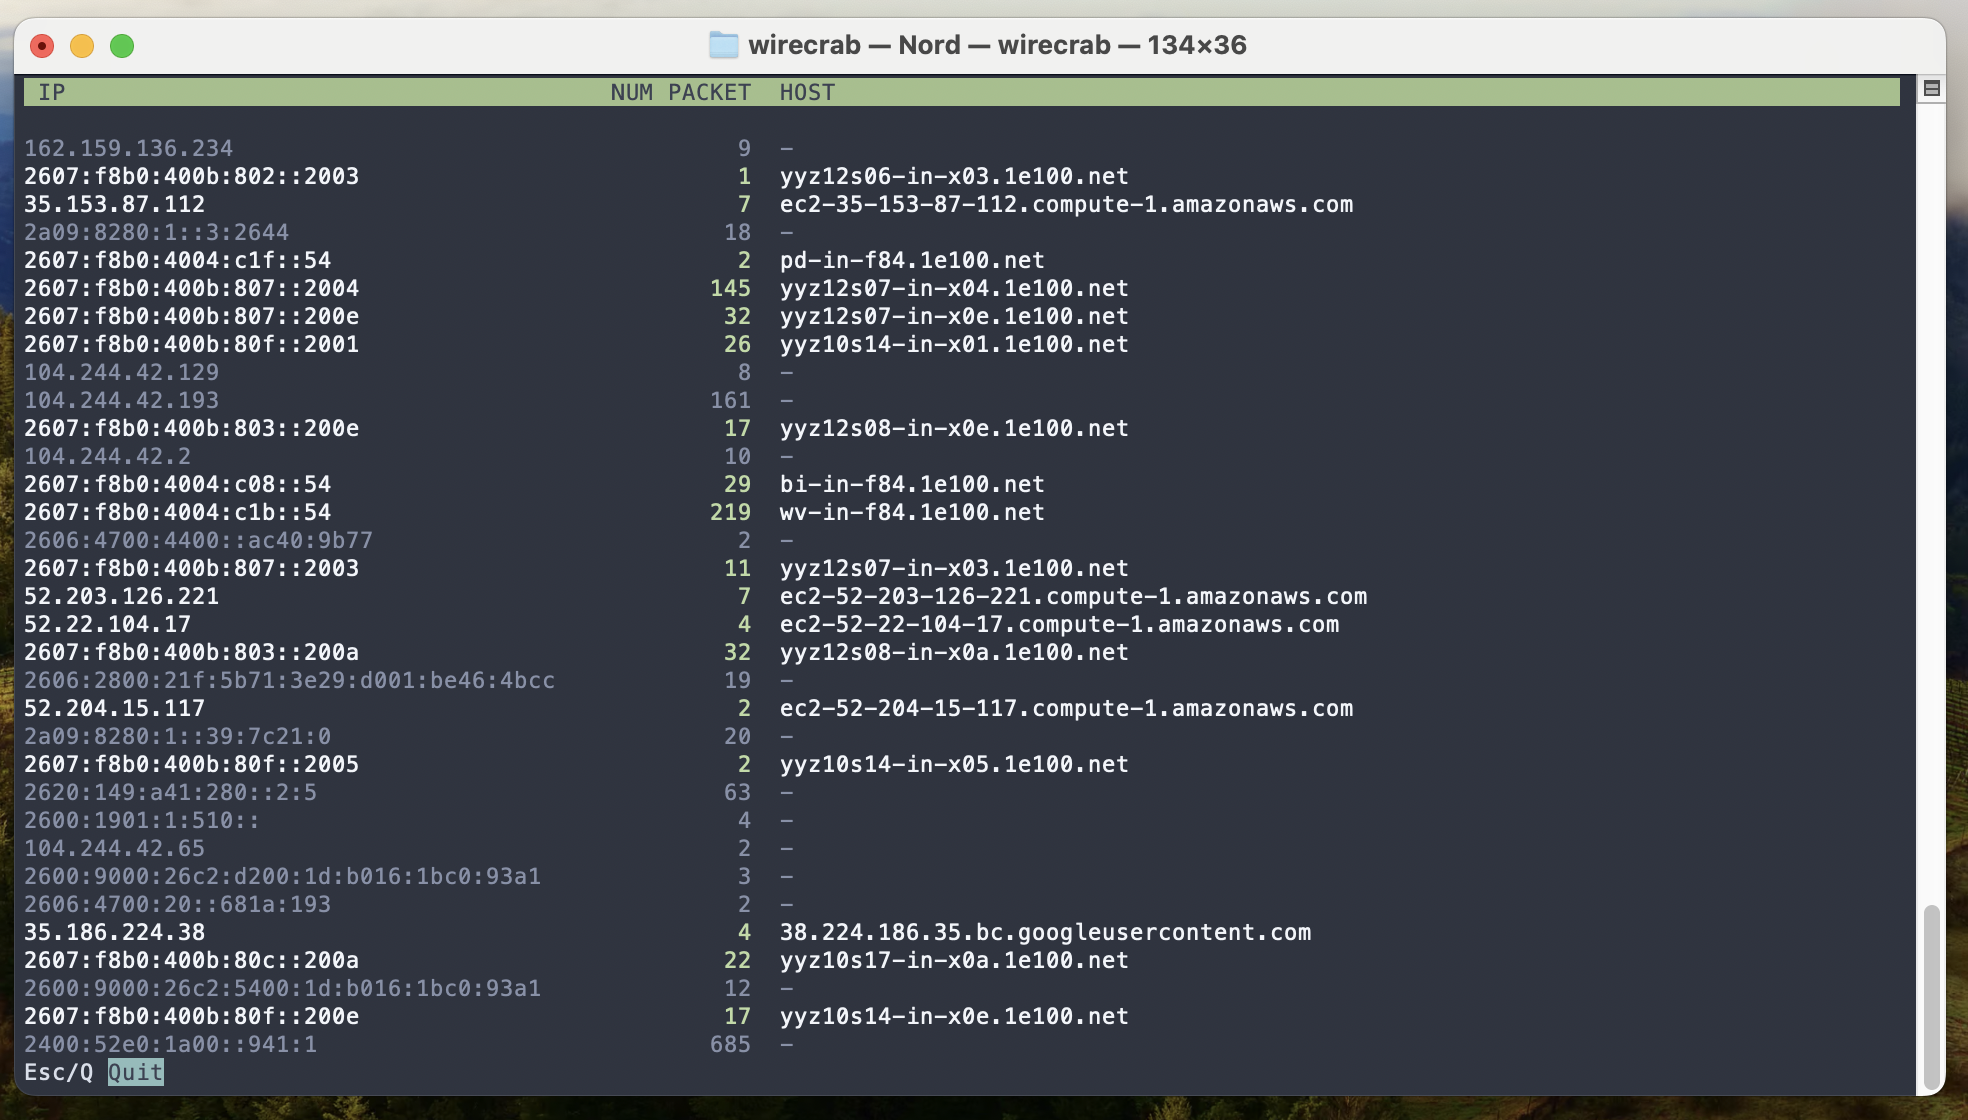
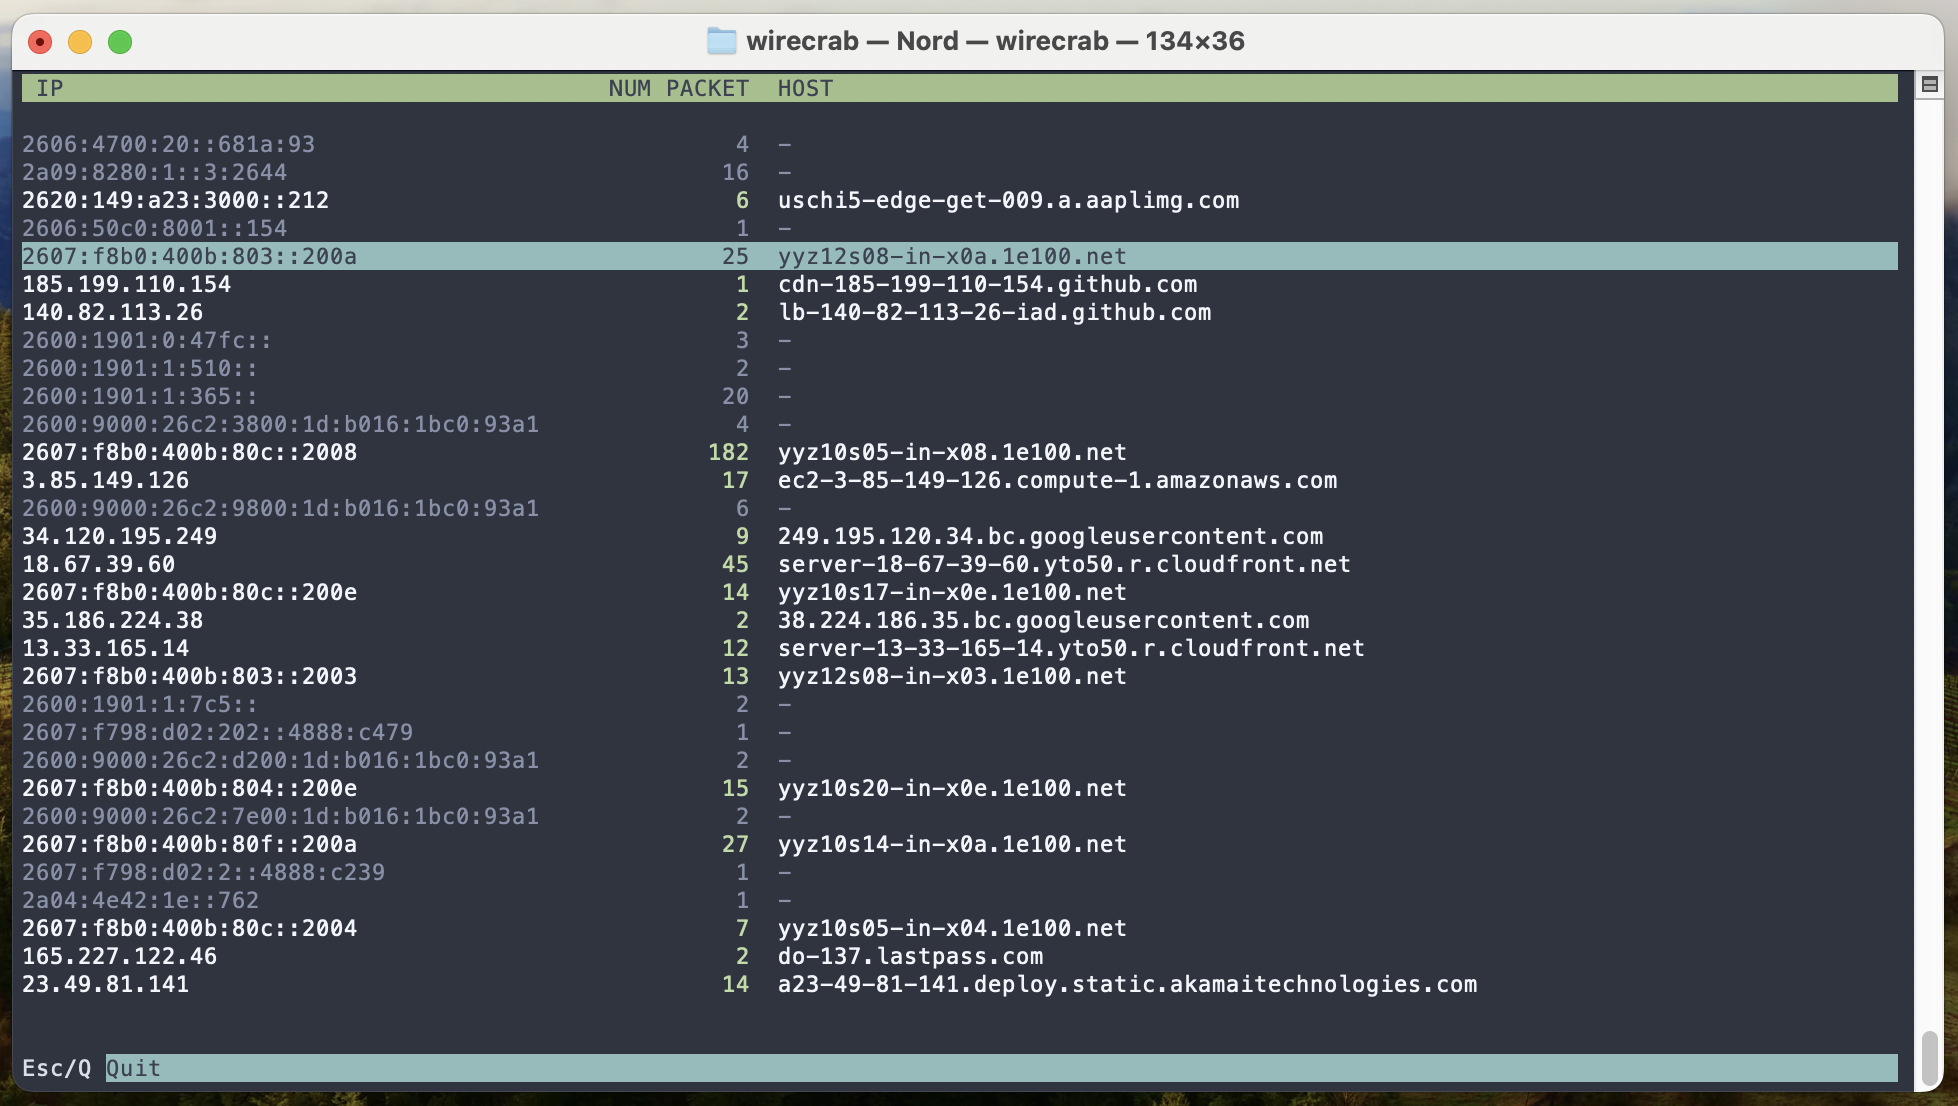
ref ui

Changed region(s): [[0.0, 0.0, 1.0, 1.0], [0.3427, 0.3689, 0.7165, 0.9222], [0.3427, 0.3382, 0.3739, 0.3689]]

diff --git a/src/ui.rs b/src/ui.rs
@@ -91,9 +91,14 @@ pub fn render(app: &mut App, frame: &mut Frame) {
 
 #[allow(unused)]
 pub fn render_bottom_bar(app: &mut App, area: Rect, frame: &mut Frame) {
-    let instructions = Line::from(vec![
-        Span::from("Esc/Q "),
-        Span::from("Quit").bg(Color::LightCyan).fg(Color::Black),
-    ]);
-    frame.render_widget(instructions, area);
+    let areas = Layout::default()
+        .direction(Direction::Horizontal)
+        .constraints(vec![Constraint::Length(6), Constraint::Min(0)])
+        .split(area);
+
+    frame.render_widget(Span::from("Esc/Q"), areas[0]);
+    frame.render_widget(
+        Line::from("Quit").bg(Color::LightCyan).fg(Color::Black),
+        areas[1],
+    );
 }
